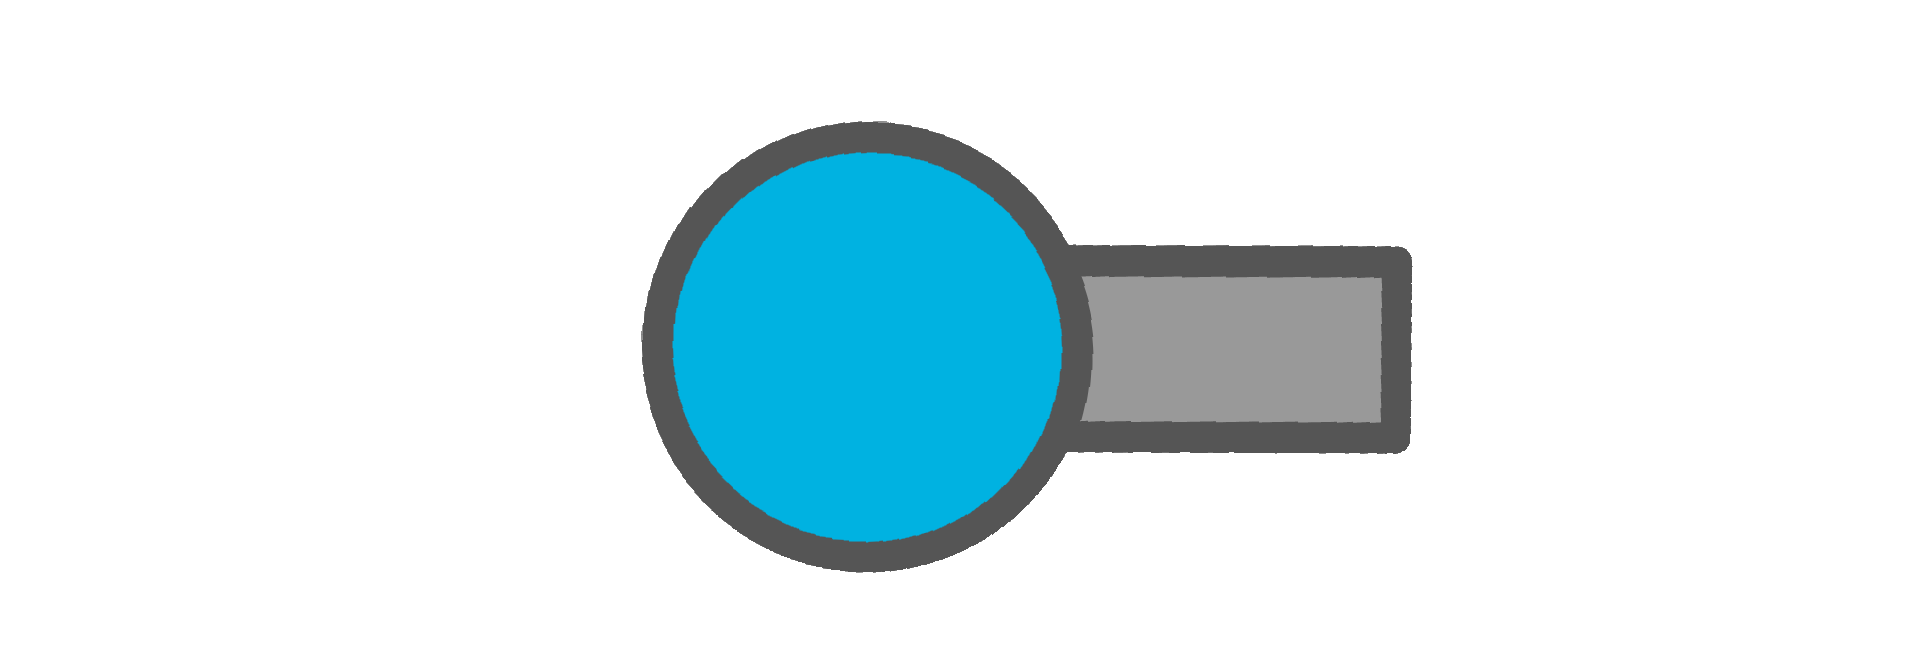
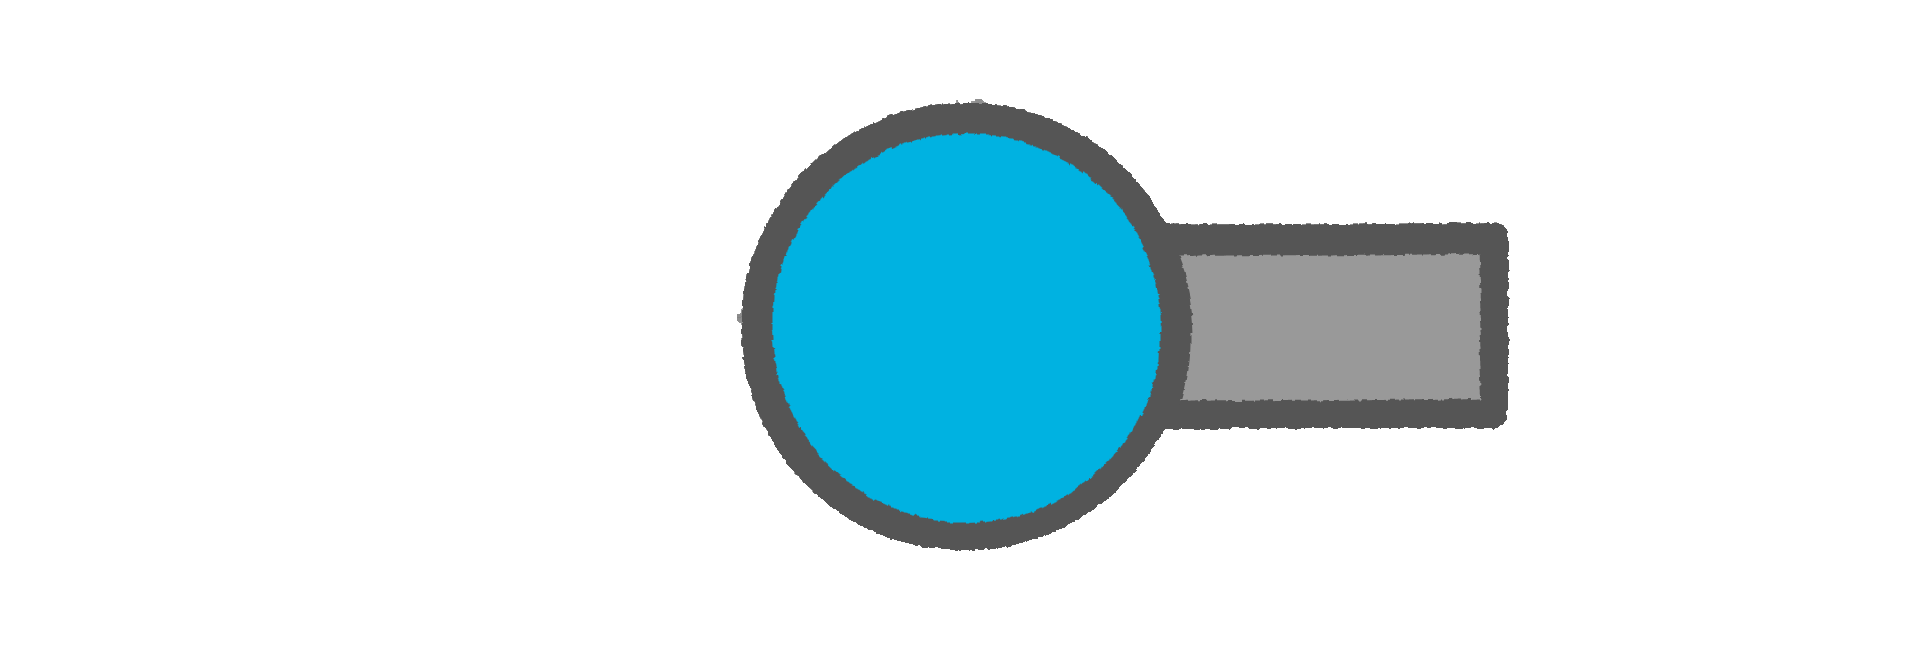
Create images for diep.io tanks

Changed region(s): [[0.3125, 0.1562, 0.8125, 0.875]]

diff --git a/src/games/diep-io-v2/Scene.js b/src/games/diep-io-v2/Scene.js
@@ -5,6 +5,9 @@ import GUISceneUntouched from "./GUISceneUntouched.js"
 import ContainerWithHealthBar from "../platformer/ContainerWithHealthBar"
 import basicImage from "../../assets/images.png"
 import basicImage2 from "../../assets/Sniper.png"
+import basicImage3 from "../../assets/TwinFlank.png"
+import basicImage4 from "../../assets/Triangle.png"
+import basicImage5 from "../../assets/Booster.png"
 
 export default class Scene extends Phaser.Scene {
     constructor() {
@@ -44,6 +47,9 @@ export default class Scene extends Phaser.Scene {
     preload() {
         this.load.image("Basic", basicImage)
         this.load.image("Sniper", basicImage2)
+        this.load.image("Flank-Guard", basicImage3)
+        this.load.image("Tri-Angle", basicImage4)
+        this.load.image("Booster", basicImage5)
     }
 
     setupKeys() {
@@ -319,12 +325,12 @@ export default class Scene extends Phaser.Scene {
                     let container = new ContainerWithHealthBar(this, playerCircle.x, playerCircle.y, [], 77, -75, 2, playerCircle.hp);
                     let initialColor = 0xf04f54
                     // You will know that the playerCircle Belongs With This Player If The Players SessionId is The PlayerCircles PlayerId
-                    if (playerCircle.playerId == this.myId) initialColor = 0x00B1DE
+                    if (playerCircle.playerId != this.myId) this.myTankName = "Enemy" + this.myTankName
                     // Get tank attributes
                     const tankAttributes = this.tankInfo[this.myTankName]
 
                     const playerImage = this.add.sprite(0, 0, String(this.myTankName))
-                    playerImage.setScale(0.1, 0.1)
+                    playerImage.setScale(0.12, 0.12)
                     let text = this.add.text(0, 0, `${statePlayer?.name || "Guest"}`)
                     // const amountOfTurrets = this.tankInfo[this.myTankName]?.turrets
                     // for (let x = 0; x < tankAttributes?.turrets; x++) {
@@ -336,7 +342,8 @@ export default class Scene extends Phaser.Scene {
                     //     turret.setOrigin(-0.1, 0.5)
                     //     container.add(turret)
                     // }
-                    text.setOrigin(0.5, 0.5);
+                    text.setOrigin(0.5, 3.5);
+                    text.style.setShadow(2, 2, "black")
                     container.add(playerImage)
                     container.add(text)
                     this.listClients()
